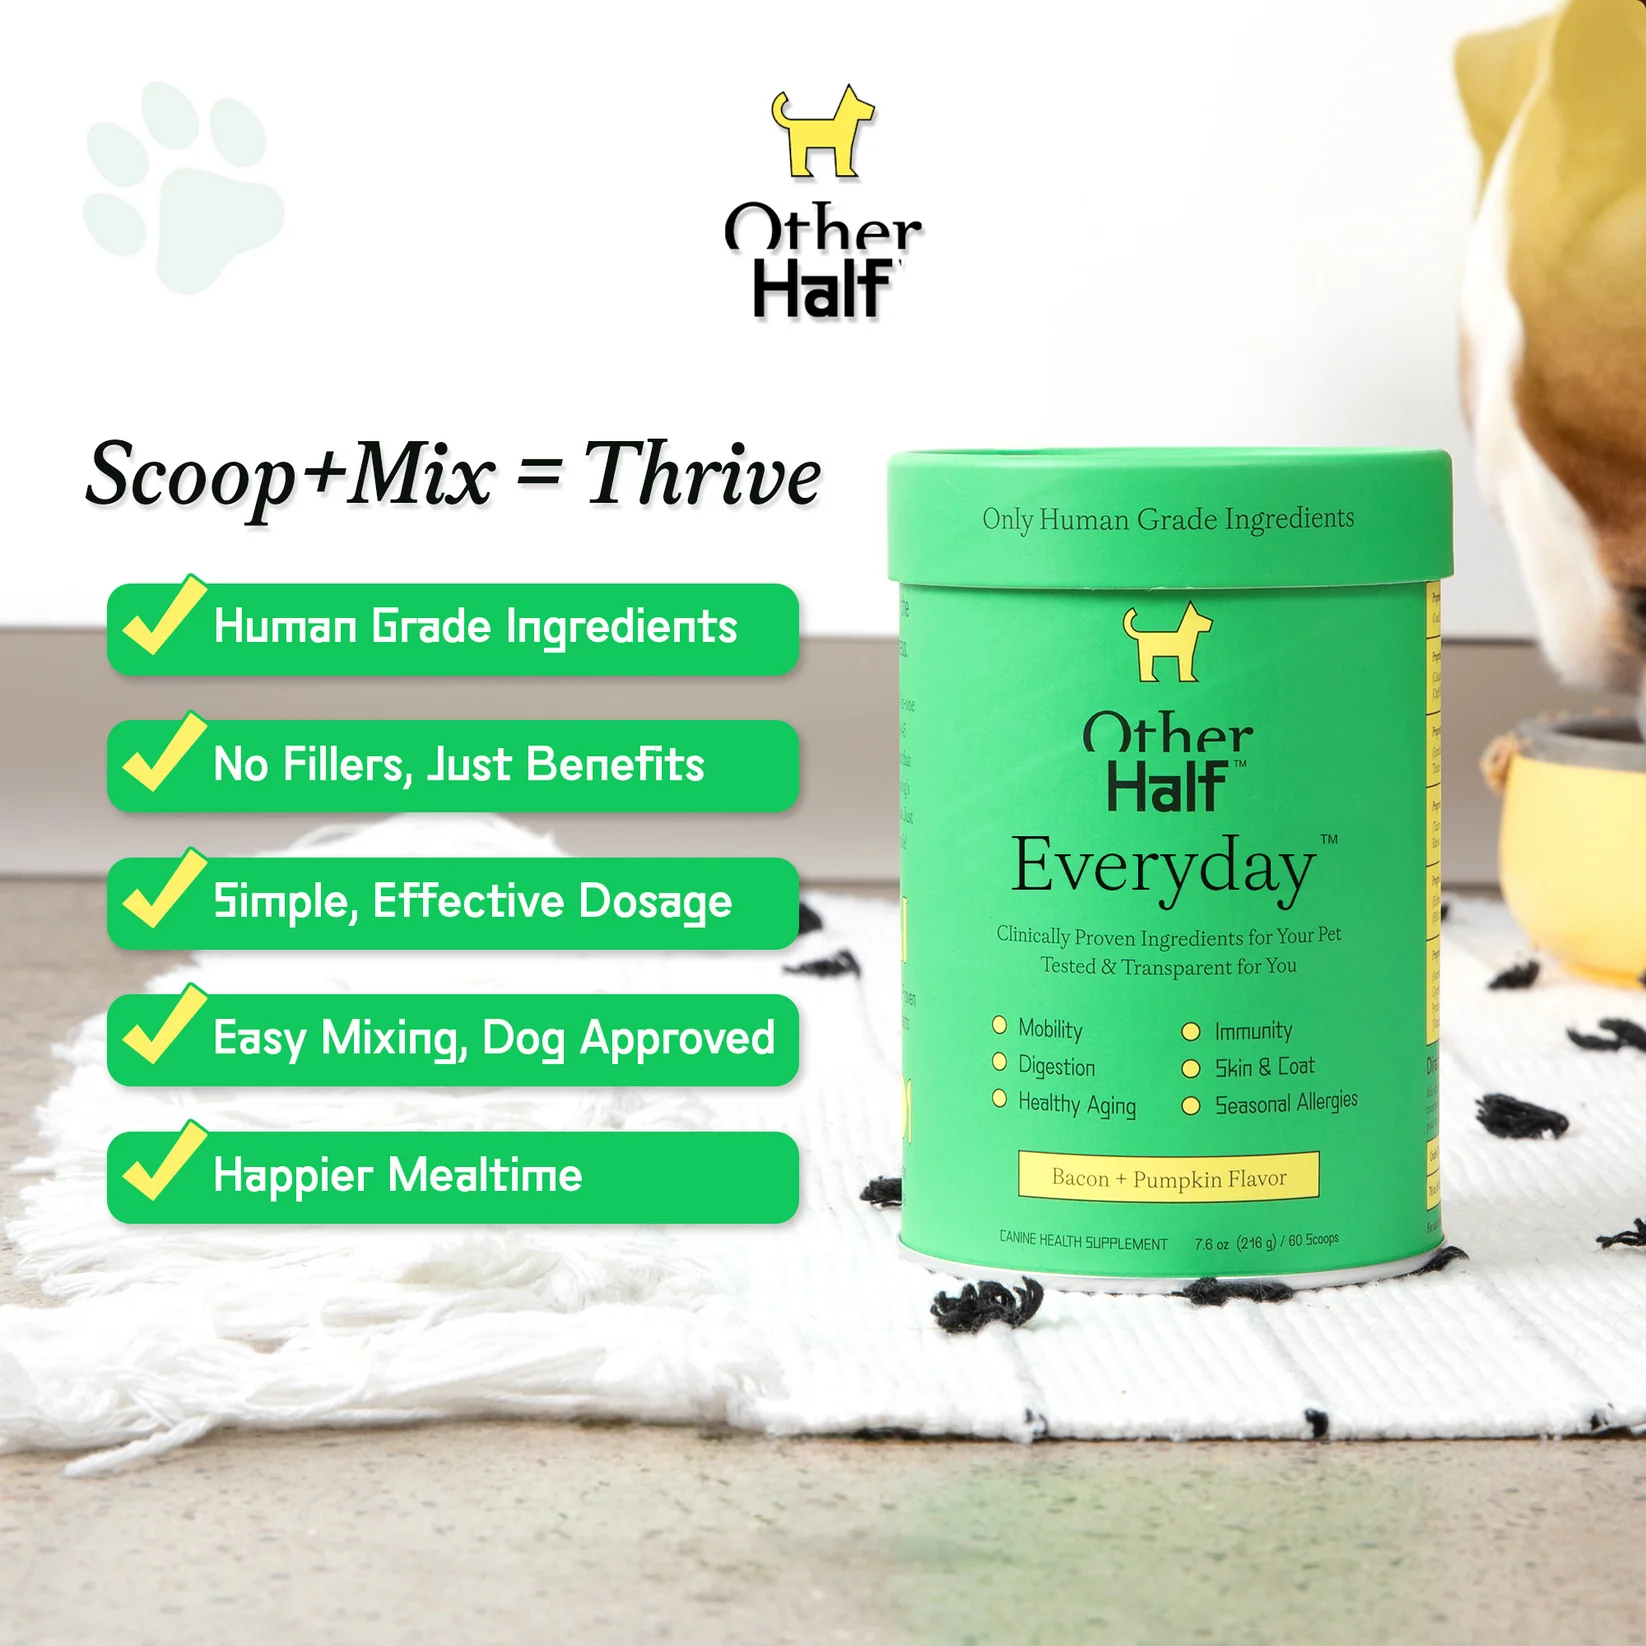
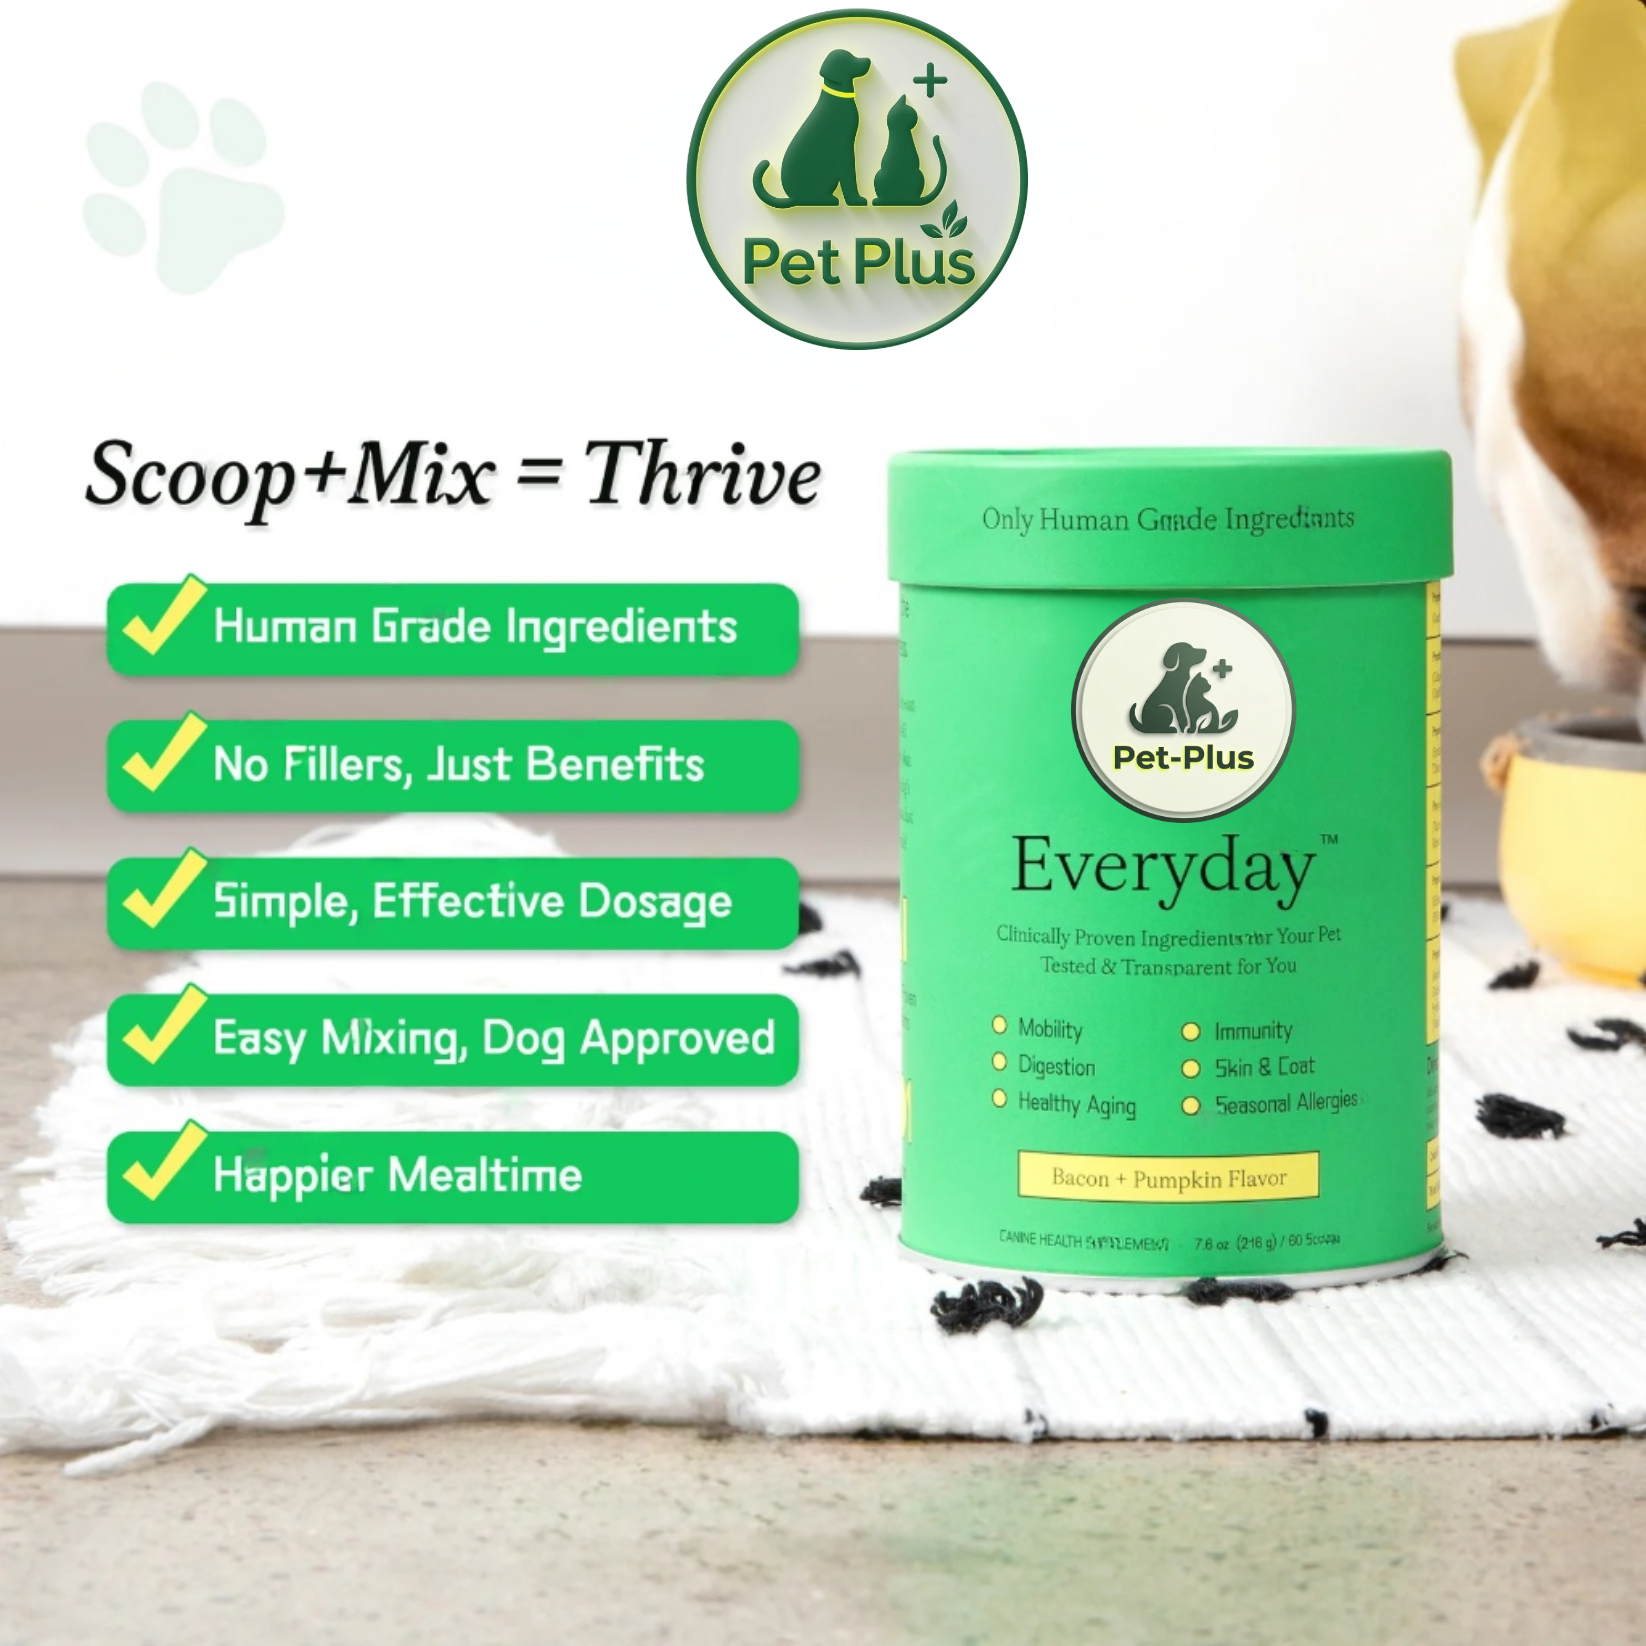
updating the all images to PetPlus

diff --git a/other-half/src/Product/ProductBanner.jsx b/other-half/src/Product/ProductBanner.jsx
@@ -40,10 +40,10 @@ const defaultProductBannerData = {
   name: "45 in 1 Everyday Daily Multivitamin",
   review: { rating: 4.5, count: 50, href: "#reviews" },
   gallery: [
-    { id: "gallery-1", src: "/Product/images/p1.png", alt: "Product image 1" },
-    { id: "gallery-2", src: "/Product/images/p1.png", alt: "Product image 2" },
-    { id: "gallery-3", src: "/Product/images/p1.png", alt: "Product image 3" },
-    { id: "gallery-4", src: "/Product/images/p1.png", alt: "Product image 4" },
+    { id: "gallery-1", src: "/Product/images/Productimage.png", alt: "Product image 1" },
+    { id: "gallery-2", src: "/Home/images/EverydayProduct.png", alt: "Product image 2" },
+    { id: "gallery-3", src: "/Product/images/Productimage.png", alt: "Product image 3" },
+    { id: "gallery-4", src: "/Home/images/EverydayProduct.png", alt: "Product image 4" },
   ],
   qualityHighlights: [
     {

diff --git a/other-half/src/Pages/OurCollection.jsx b/other-half/src/Pages/OurCollection.jsx
@@ -10,7 +10,7 @@ const products = [
     link: "/product",
     tag: "Best Seller",
     tagColor: "bg-orange-500",
-    image: "/Default/images/col1.png",
+    image: "/Home/images/EverydayProduct.png",
     hoverImage: "/Default/images/col5hov.png",
     rating: 4.9,
     reviews: 429,
@@ -31,7 +31,7 @@ const products = [
     link: "/doggie-dental",
     tag: "New Release",
     tagColor: "bg-blue-500",
-    image: "/Default/images/col2.png",
+    image: "/Home/images/DoggiDental.png",
     hoverImage: "/Default/images/col5hov.png",
     rating: 4.9,
     reviews: 429,
@@ -52,7 +52,7 @@ const products = [
     link: "/dailyduo",
     tag: "Bundle & Save",
     tagColor: "bg-pink-600",
-    image: "/Default/images/col3.png",
+    image: "/Home/images/Daily-Duo.png",
     hoverImage: "/Default/images/col5hov.png",
     rating: 4.9,
     reviews: 429,
